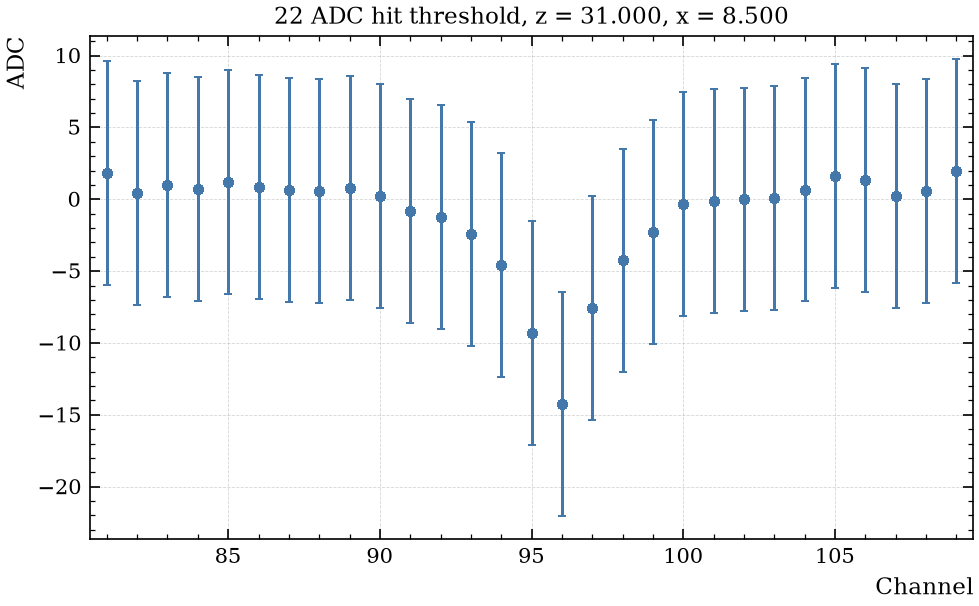
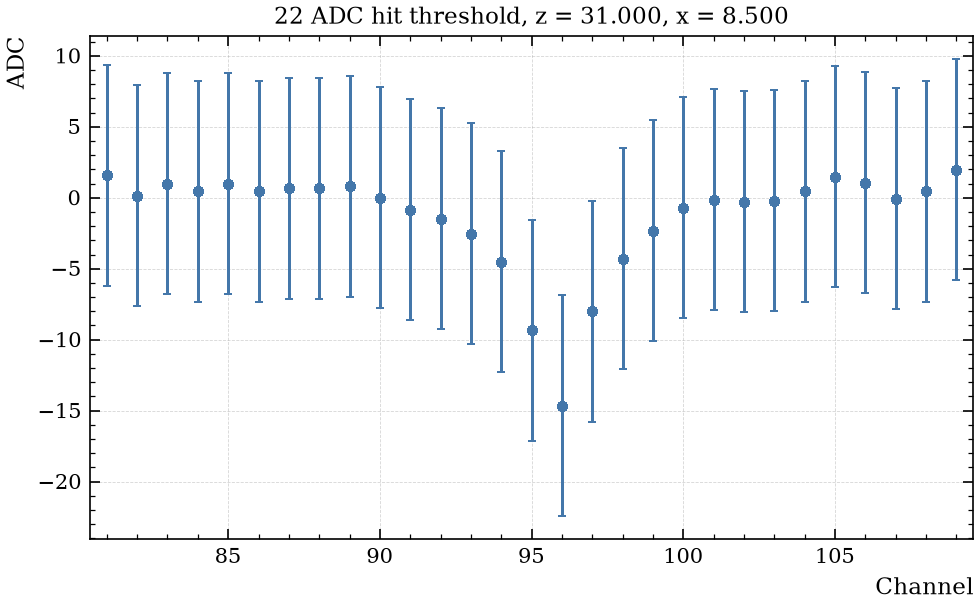
ana

diff --git a/bias_motor_scan_ana.py b/bias_motor_scan_ana.py
@@ -5,7 +5,7 @@ from scipy.optimize import curve_fit
 from scipy.optimize import OptimizeWarning
 import warnings
 import matplotlib
-matplotlib.use("Agg")  # headless: no X11 needed over ssh
+matplotlib.use("Agg")
 import matplotlib.pyplot as plt
 import matplotlib.ticker as tck
 import json
@@ -632,30 +632,6 @@ def main(args: list[str] | None = None):
         ax_zs.set_ylabel("σ in x [µm]")
         fig_zs.savefig(biasdir / "focus_scan.png", dpi=150)
 
-        ax_adc.xaxis.set_minor_locator(tck.AutoMinorLocator())    
-        # ax_adc.legend()
-        ax_adc.set_title(f"{voltage} V")
-        ax_adc.set_xlabel("Position in x [mm]")
-        ax_adc.set_ylabel("Mean ADC")
-        ax_adc.set_xlim(CH1CENTER - 0.1, CH2CENTER + 0.1)
-        fig_adc.savefig(biasdir / "two_channels_mean_adc.png", dpi=150)
-
-        # Cluster sizes
-        # fig_cl, ax_cl = plt.subplots(1,1)
-        # for z, z_df in clusters.items():
-        #     xs = sorted(z_df)
-        #     ax_cl.plot(xs, [z_df[k] for k in xs], "-o", ms=3, label=f"z = {z:.2f}")
-        # ax_cl.set_title(f"{HIT_THRESHOLD} ADC hit threshold, {voltage} V")
-        # ax_cl.set_xlabel("Position in x [mm]")
-        # ax_cl.set_ylabel("Cluster size mean [channel]")
-        # fig_cl.savefig(biasdir / "clusters.png", dpi=150)
-
-        # Hits
-        # ax_hits.set_title(f"{HIT_THRESHOLD} ADC hit threshold, {voltage} V")
-        # ax_hits.set_xlabel("Channel")
-        # ax_hits.set_ylabel("# Hits")
-        # fig_hits.savefig(biasdir / "hits.png", dpi=150)
-
         # Avg hits
         fig_avg_hits, ax_avg_hits = plt.subplots(1,1)
         for z, zf in mean_channel_hits[voltage].items():
@@ -667,28 +643,14 @@ def main(args: list[str] | None = None):
         ax_avg_hits.set_xlabel("Position in x [mm]")
         ax_avg_hits.set_ylabel("Hit average [channel]")
         ax_avg_hits.grid(True)
-        # ax_avg_hits.legend(ncols=3, fontsize="small")
         fig_avg_hits.savefig(biasdir / "avg_hits.png", dpi=150)
-
-        # Hits in specified channels
-        fig_hc, ax_hc = plt.subplots(1,1)
-        colors = itertools.cycle(plt.rcParams["axes.prop_cycle"].by_key()["color"])
-        for z, zf in ch_counts[voltage].items():
-            ax_hc.plot(
-                zf[ch1], zf[ch2], 
-                '-o', label=f"z = {z:.3f}", color=next(colors))
-
-        ax_hc.set_title(f"{HIT_THRESHOLD} ADC hit threshold, {voltage} V")
-        ax_hc.set_xlabel(f"# Hits in ch {ch1}")
-        ax_hc.set_ylabel(f"# Hits in ch {ch2}")
-        fig_hc.savefig(biasdir / "hits_channels.png", dpi=150)
 
     fig_f, ax_f = plt.subplots(1,1)
     for i, ch in enumerate([ch1, ch2]):
         pts = sorted(focuses.get(ch, {}).items())
         if not pts:
             continue
-        vs = [float(v) for v, _ in pts]
+        volts = [float(v) for v, _ in pts]
         zm = [p[0] for _, p in pts]
         ze = [p[1] for _, p in pts]
         sm = [p[2] for _, p in pts]

diff --git a/knife_edge_ana.py b/knife_edge_ana.py
@@ -4,6 +4,8 @@ from scipy.special import erf
 from scipy.optimize import curve_fit
 from scipy.optimize import OptimizeWarning
 import warnings
+import matplotlib
+matplotlib.use("Agg")
 import matplotlib.pyplot as plt
 import matplotlib.ticker as tck
 import json
@@ -19,8 +21,8 @@ from get_delay import get_delay
 plt.style.use("/home/teleuser/ELAD/tct/elad-tct-analysis/paper-style.mplstyle")
 
 ALPHA = 1
-TIME_THRESHOLD = 10
-HIT_THRESHOLD = 10
+TIME_THRESHOLD = 22
+HIT_THRESHOLD = 22
 
 BINS = 100
 EMPTY_CHANNELS = [0, 63, 64, 127, 128, 191, 192, 256]
@@ -90,7 +92,7 @@ def main(args: list[str] | None = None):
     if args.cache is not None:
         for k in range(n_chunks):
             print(f"Caching chunk {k} / {n_chunks - 1}")
-            load_chunk(paths, args.cache, k, args.rebuild)
+            load_chunk(paths, args.cache, k, CHUNK_SIZE, args.rebuild)
 
     # Get pedestals
     pedestals = pd.read_csv(path_pedestals, header=1)
@@ -116,11 +118,10 @@ def main(args: list[str] | None = None):
     print("Getting delay parameter...")
     df_id = -1
     for k in range(n_chunks):
-        df_all = load_chunk(paths, args.cache, k)
+        df_all = load_chunk(paths, args.cache, k, CHUNK_SIZE)
         data = [g for _, g in df_all.groupby("run_id")]
         del df_all
         for df in data:
-            df = df.merge(pedestals[["channel", "pedestals"]], on="channel", how="left")
             df = clean_df(
                 df, pedestals, df_id, subdir, args.fast_common_mode, delay, sigma_t,
                 EMPTY_CHANNELS, ALLOWANCE, NOISE_THRESHOLD, PLOTCHANNEL, CHMIN, CHMAX,
@@ -146,7 +147,7 @@ def main(args: list[str] | None = None):
     # Loop through the data
     df_id = -1
     for k in range(n_chunks):
-        df_all = load_chunk(paths, args.cache, k)
+        df_all = load_chunk(paths, args.cache, k, CHUNK_SIZE)
         data = [g for _, g in df_all.groupby("run_id")]
         del df_all
 
@@ -174,16 +175,16 @@ def main(args: list[str] | None = None):
     del(progress_bar)
     print("Saving plots...")
 
+    fig, ax = plt.subplots(1,1)
     sigmas = {}
     for _, chdict in ch_mean_adc.items():
         for z, zdict in chdict.items():
             # Get the sigma of the erf fit of mean adc vs x
-            plt.plot(zdict.keys(), zdict.values())
-            plt.show()
+            ax.plot(zdict.keys(), zdict.values())
+            fig.savefig(plotdir / f"knife_edge_z{z}.png", dpi=150)
             sigma = 1 # GET THE SIGMA FROM FIT
             sigmas[z] = sigma
 
-    fig, ax = plt.subplots(1,1)
     for z, sigma in sigmas.items():
         xs = sorted(z)
         ax.plot(xs, 1000 * [sigmas[k] for k in xs], "-o", ms=3)

diff --git a/load_data.py b/load_data.py
@@ -53,7 +53,7 @@ def load_data(paths, cache: pathlib.Path | None, chunk: int, rebuild: bool = Fal
     return df
 
 
-def load_chunk(paths, cache: pathlib.Path | None, k: int, rebuild: bool = False, CHUNK_SIZE: int) -> pd.DataFrame:
+def load_chunk(paths, cache: pathlib.Path | None, k: int, CHUNK_SIZE: int, rebuild: bool = False) -> pd.DataFrame:
     """Loads files k*100 ... (k+1)*100 - 1, with their own numbered cache."""
     paths = sorted(paths)
     chunk = paths[k * CHUNK_SIZE:(k + 1) * CHUNK_SIZE]
